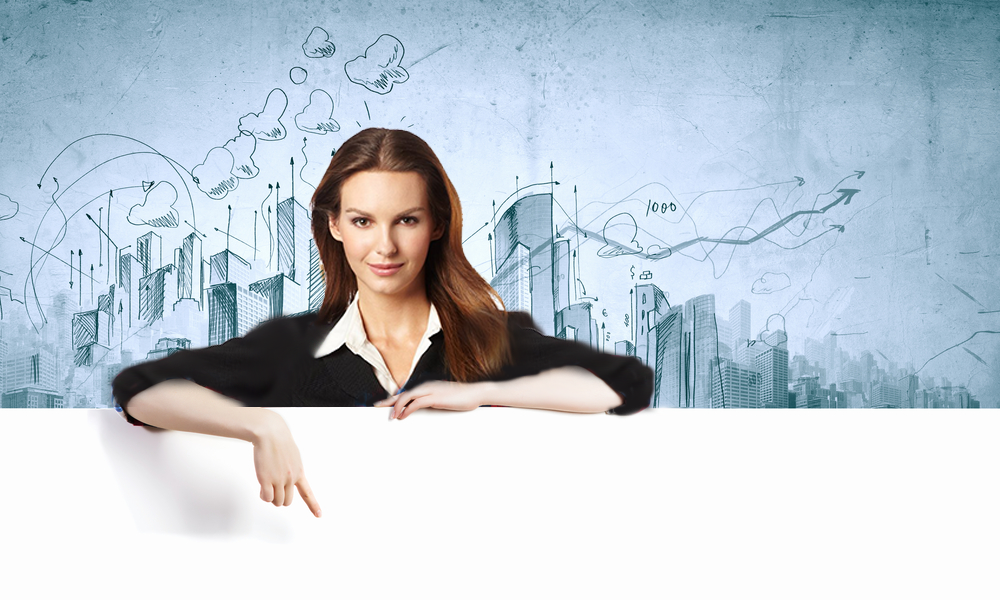
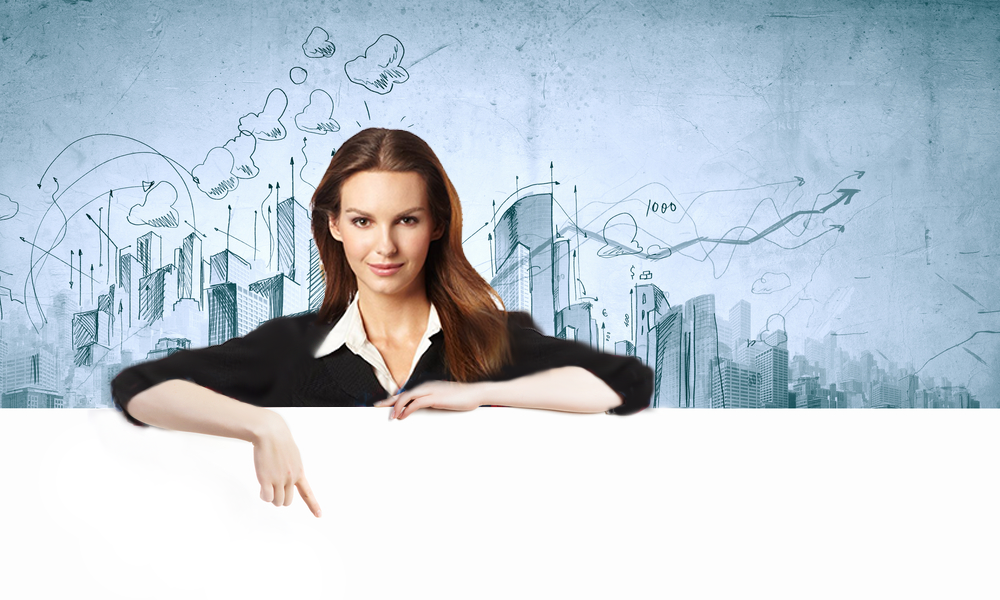
Updates 404 with new image, updates now hiring lady with no shadows

diff --git a/404.html b/404.html
@@ -4,7 +4,7 @@ layout: default
 <section class="container">
 	<div class="container text-center" style="margin-top:20px;">
 		<h1>404 - Page Not Found</h1>
-		<img src="/assets/images/404.jpg" style="margin-left:auto; margin-right:auto;"></img>
+		<img src="/assets/images/404-web.png" style="margin-left:auto; margin-right:auto;"></img>
 		<h3><a href="/">Home</a></h3>
 		<h3><a href="mailto:info@whiteboardfederal.com">Contact Us</a></h3>
 	</div>
